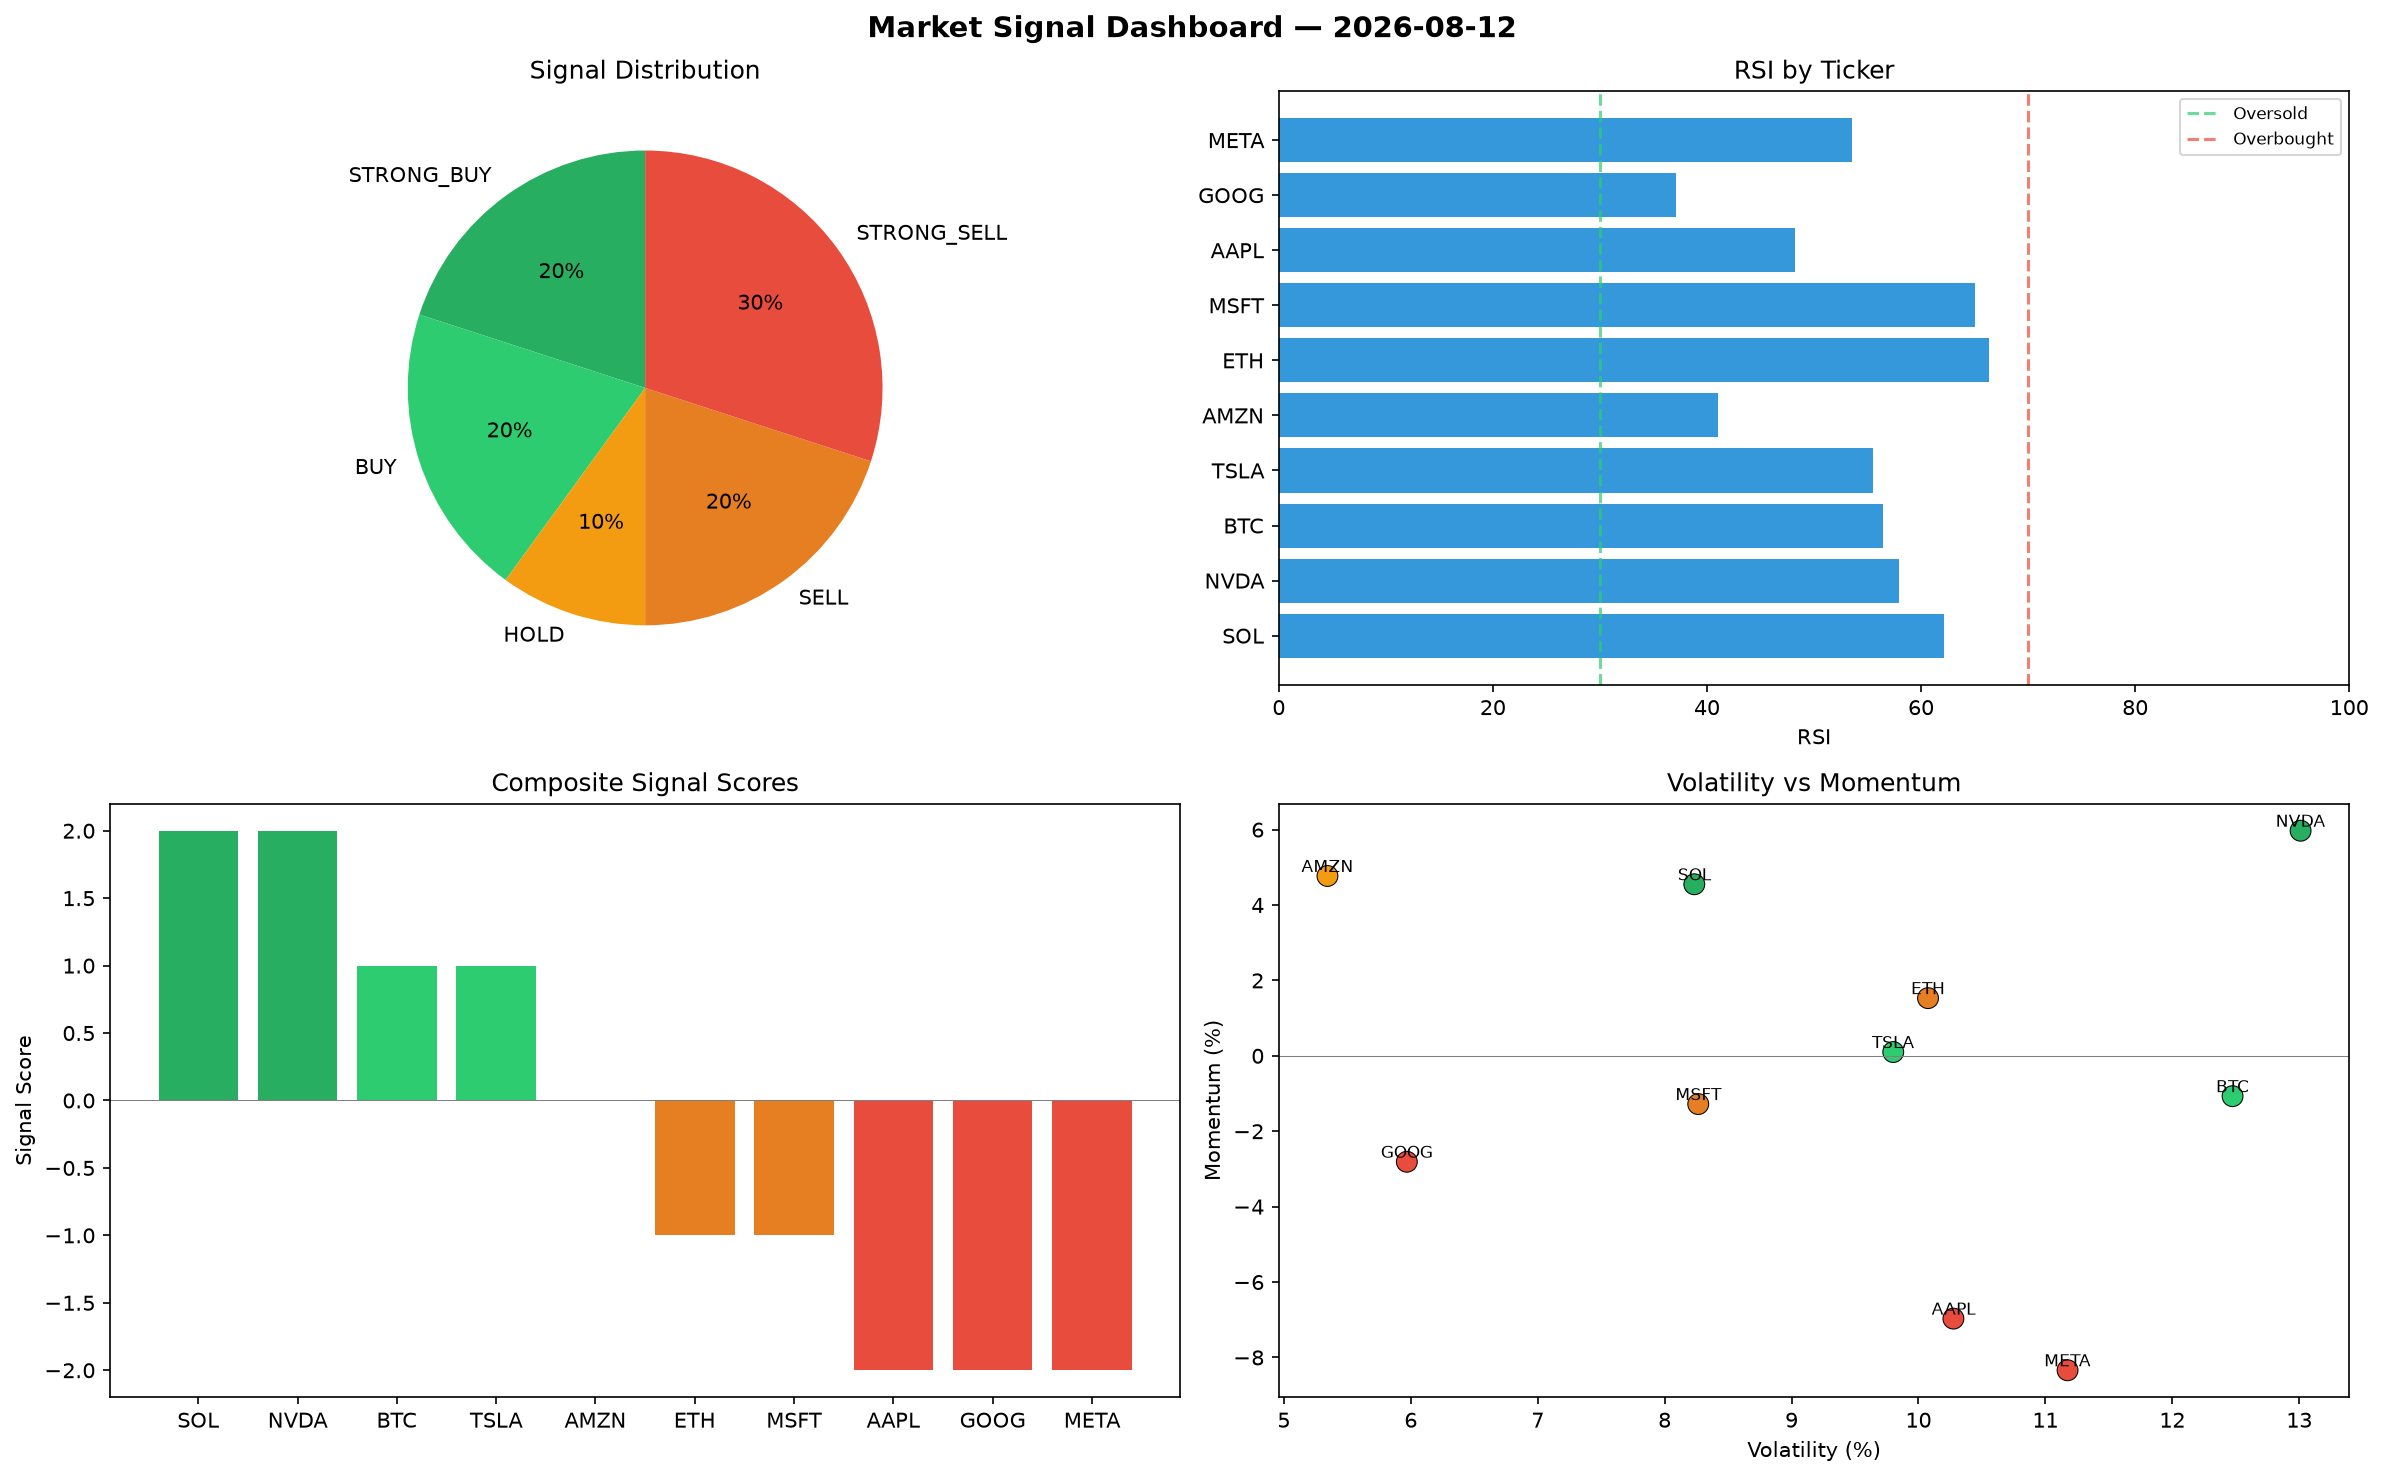
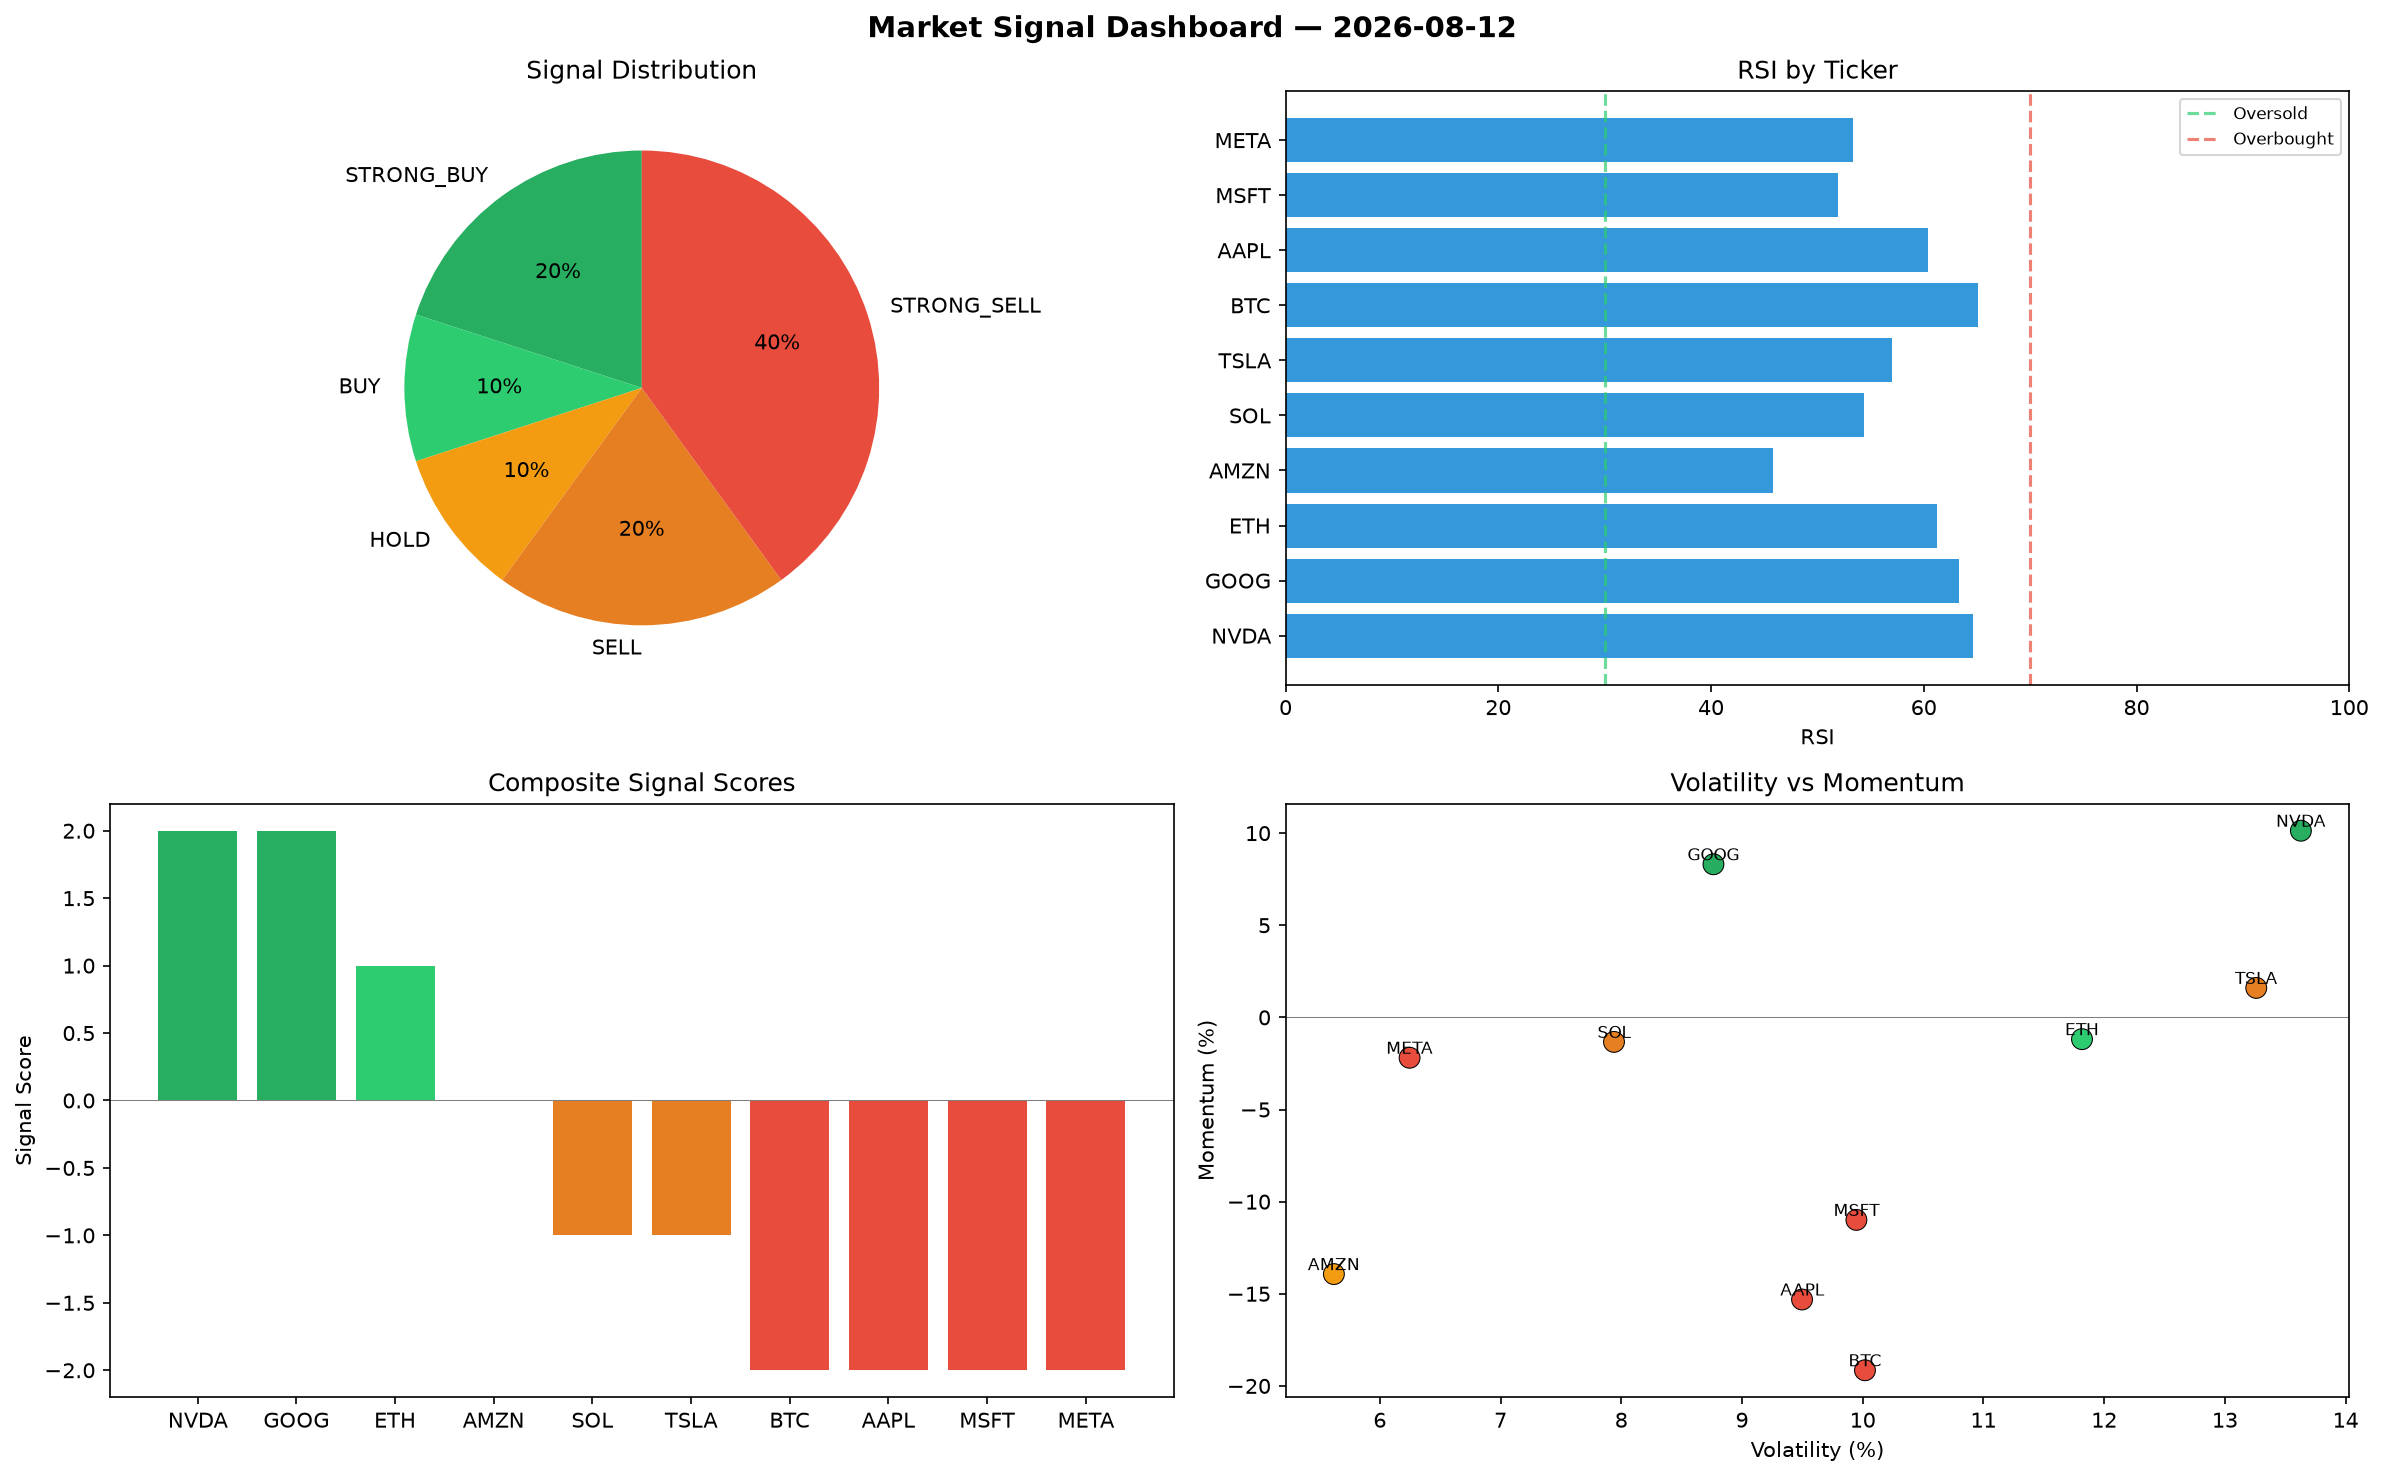
automated-bots: market signals 2026-08-12T21:09

diff --git a/logs/2026-08-12.md b/logs/2026-08-12.md
@@ -1,6 +1,6 @@
 # Market Signal Report — 2026-08-12
 
-**Run ID:** `7ca0d55eaf` | **Buy:** 4 | **Sell:** 5 | **Hold:** 1
+**Run ID:** `0942faaec0` | **Buy:** 3 | **Sell:** 6 | **Hold:** 1
 
 ![Dashboard](2026-08-12_dashboard.png)
 
@@ -8,28 +8,28 @@
 
 | Ticker | Price | Signal | Score | RSI | Momentum | Confidence |
 |--------|-------|--------|-------|-----|----------|------------|
-| SOL | $2510.27 | **STRONG_BUY** | 2 | 62.12 | 0.0455 | 0.5 |
-| NVDA | $1533.04 | **STRONG_BUY** | 2 | 57.91 | 0.0597 | 0.5 |
-| BTC | $3647.28 | **BUY** | 1 | 56.46 | -0.0107 | 0.25 |
-| TSLA | $2260.87 | **BUY** | 1 | 55.52 | 0.001 | 0.25 |
-| AMZN | $1956.67 | **HOLD** | 0 | 41.01 | 0.0477 | 0.0 |
-| ETH | $4356.1 | **SELL** | -1 | 66.38 | 0.0153 | 0.25 |
-| MSFT | $3842.1 | **SELL** | -1 | 65.05 | -0.0128 | 0.25 |
-| AAPL | $3658.13 | **STRONG_SELL** | -2 | 48.25 | -0.0697 | 0.5 |
-| GOOG | $4560.89 | **STRONG_SELL** | -2 | 37.13 | -0.0281 | 0.5 |
-| META | $2568.11 | **STRONG_SELL** | -2 | 53.57 | -0.0834 | 0.5 |
+| NVDA | $2417.86 | **STRONG_BUY** | 2 | 64.65 | 0.1013 | 0.5 |
+| GOOG | $313.65 | **STRONG_BUY** | 2 | 63.32 | 0.0831 | 0.5 |
+| ETH | $2912.44 | **BUY** | 1 | 61.27 | -0.0118 | 0.25 |
+| AMZN | $1484.56 | **HOLD** | 0 | 45.78 | -0.1393 | 0.0 |
+| SOL | $1516.9 | **SELL** | -1 | 54.37 | -0.0133 | 0.25 |
+| TSLA | $1022.17 | **SELL** | -1 | 56.99 | 0.016 | 0.25 |
+| BTC | $3482.24 | **STRONG_SELL** | -2 | 65.06 | -0.1915 | 0.5 |
+| AAPL | $461.94 | **STRONG_SELL** | -2 | 60.38 | -0.1531 | 0.5 |
+| MSFT | $4096.19 | **STRONG_SELL** | -2 | 51.89 | -0.1099 | 0.5 |
+| META | $1153.15 | **STRONG_SELL** | -2 | 53.32 | -0.0219 | 0.5 |
 
 ## Delta vs Yesterday
 
 | Ticker | Today | Yesterday | Price Change | Signal Changed |
 |--------|-------|-----------|-------------|----------------|
-| SOL | STRONG_BUY | STRONG_BUY | 📉 -26.39% | — |
-| NVDA | STRONG_BUY | STRONG_BUY | 📉 -39.69% | — |
-| BTC | BUY | HOLD | 📈 100.29% | ⚠ YES |
-| TSLA | BUY | BUY | 📈 441.06% | — |
-| AMZN | HOLD | BUY | 📉 -39.67% | ⚠ YES |
-| ETH | SELL | HOLD | 📈 228.48% | ⚠ YES |
-| MSFT | SELL | STRONG_SELL | 📈 89.69% | ⚠ YES |
-| AAPL | STRONG_SELL | STRONG_BUY | 📉 -21.76% | ⚠ YES |
-| GOOG | STRONG_SELL | BUY | 📈 28.08% | ⚠ YES |
-| META | STRONG_SELL | STRONG_SELL | 📈 19.42% | — |
+| NVDA | STRONG_BUY | STRONG_BUY | 📉 -4.87% | — |
+| GOOG | STRONG_BUY | BUY | 📉 -91.19% | ⚠ YES |
+| ETH | BUY | HOLD | 📈 119.62% | ⚠ YES |
+| AMZN | HOLD | BUY | 📉 -54.23% | ⚠ YES |
+| SOL | SELL | STRONG_BUY | 📉 -55.52% | ⚠ YES |
+| TSLA | SELL | BUY | 📈 144.62% | ⚠ YES |
+| BTC | STRONG_SELL | HOLD | 📈 91.23% | ⚠ YES |
+| AAPL | STRONG_SELL | STRONG_BUY | 📉 -90.12% | ⚠ YES |
+| MSFT | STRONG_SELL | STRONG_SELL | 📈 102.24% | — |
+| META | STRONG_SELL | STRONG_SELL | 📉 -46.38% | — |
